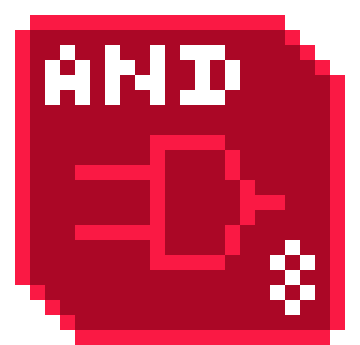
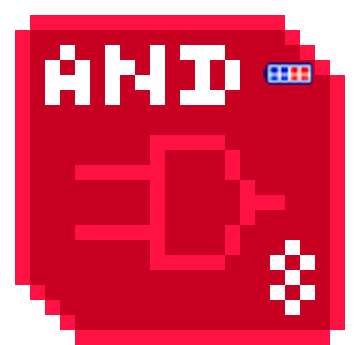
Imagenes de Operadores con Baterias
Se añadieron las baterias a las imagenes de los operadores

diff --git a/moon-project/Incrementar.java b/moon-project/Incrementar.java
@@ -19,9 +19,4 @@ public class Incrementar extends Operaciones
         GreenfootImage image = getImage();
         image.scale(imageWidth,imageHeight);
     }
-
-    public void act()
-    {
-        
-    }
 }
